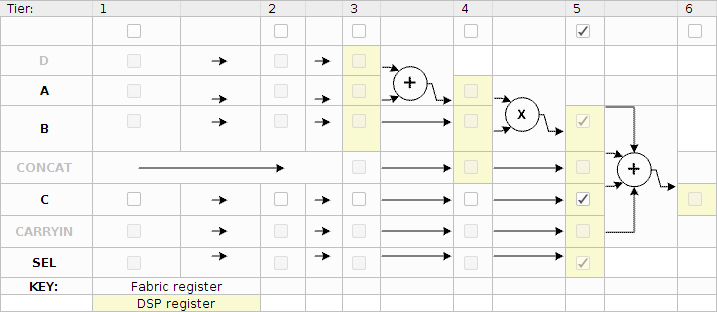
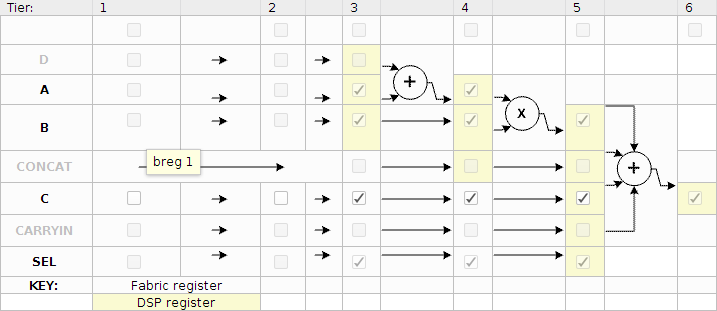
Update

diff --git a/chapters/implementation-details.tex b/chapters/implementation-details.tex
@@ -89,7 +89,7 @@ end
 
 The code is separated into a sequential block and a combinational next-state logic block for clarity.
 The merged C code of \mintinline{c}{gemm} and \mintinline{c}{col2im} shown in listing
-\ref{code:transposed_convolution_in_c} can be then translated into Verilog using the structure
+\ref{code:transposed_convolution_in_c} can be then translated into Verilog using this structure
 as a template.
 
 The \mintinline{c}{transconv} module is connected to the input, weight, and output \glspl{bram}. A single
@@ -133,8 +133,10 @@ The ports of both blocks are shown in figure \ref{fig:dsp48_macro_0} and figure 
 
 The DSP48 slice can be used without pipelining. However, that is essentially a combinational circuit and
 the propagation delay will significantly reduce $F_{max}$. To run the \gls{fpga} at a higher frequency, it is
-necessary to use pipeline registers. In our first design, only the register after the multiplier is used
-therefore the result is delayed by one clock cycle.
+necessary to use pipeline registers. In the first version of the design, only the register after the
+multiplier is used and the result is delayed by one clock cycle. This caused a negative \gls{wns} at
+$100 MHz$ clock frequency, which indicates that timing requirements are not met in certain paths. By
+using more pipeline registers, the results has a larger clock latency but $F_{max}$ can be improved.
 
 \begin{figure}[h]
   \centering
@@ -150,8 +152,9 @@ Xilinx Vivado is shipped with a Floating-point IP which supports many common ope
 conversion between fixed-point and floating-point formats, multiplication, accumulation, exponential,
 inverse square root, and many others. The input precision can be configured as half, single or
 double-precision, or even customized width of exponent and fraction. It is also possible to choose
-DSP slice usage, from logic only to maximum three DSP48 slices. Finally, the user is able to decide
-the goal of optimization, using minimum resources or maximum clock frequency $F_{max}$. An example
+DSP slice usage, from logic only to a maximum utilization of DSP48 slices. Finally, the user is able to decide
+the goal of optimization, using minimum resources or maximum clock frequency $F_{max}$. Choosing maximum
+clock frequency helps with the eventual timing closure, just as the case with DSP48 pipelining. An example
 floating-point multiplier is shown in figure \ref{fig:floating_point_multiplier}.
 
 \begin{figure}[h]
@@ -163,6 +166,12 @@ floating-point multiplier is shown in figure \ref{fig:floating_point_multiplier}
 
 \section{Testbench}
 
+Writing testbenches and performing simulation is a key step in \gls{fpga} development. In this project,
+each module is developed as separate projects with a corresponding testbench module and a synthesizable
+top module. The contents of these two modules are largely similar, but the testbench module usually operates
+on relatively simple data to make simulation easier. Once a module has passed simulation and on-board test,
+it is imported and integrated into the main project.
+
 \begin{figure}[h]
   \centering
   \includegraphics[scale=0.5]{behavioral_simulation}
@@ -172,13 +181,24 @@ floating-point multiplier is shown in figure \ref{fig:floating_point_multiplier}
 
 \section{Future Work on Optimization}
 
+As mentioned before, the main goal of the design was simplicity, so many optimizations were not applied.
+This section briefly discusses possible optimization methods.
+
 The first obvious optimization is to transfer all weight data from Dual-SPI Flash to the \gls{psram} once
 the \gls{fpga} is configured. Weights will be loaded from the \gls{psram} subsequently, which has a parallel
-interface and results in much faster loading of weights.
+interface and will result in much faster loading of weights.
 
-The second optimization is to further introduce several small caches using distributed RAM. These caches
+Another optimization mentioned is to widen the data buses connected to the \gls{psram}. Multiple data
+can be loaded at the same time and calculation can be performed in parallel on these data. The current
+design is highly sequential and only utilizes around $15\%$ of the \gls{dsp} slices.
+
+Yet another optimization is to further introduce several small caches using distributed RAM. These caches
 are implemented using \glspl{lut} and are faster than \glspl{bram}, i.e., they can be read asynchronously.
-Once inputs and weights are loaded into these caches, computation can then be carried out in parallel,
+Once inputs and weights are loaded into these caches, more parallelism can be achieved,
 making use of more DSP48 slices.
+
+Finally, on an \gls{fpga} chip with more \gls{bram} capacity, layer-level parallelism can be exploited, i.e.,
+several layers can be calculated at the same time. This invovles modifying the current ring structure and
+forward data stream to subsequent layers.
 
 \clearpage %force the next chapter to start on a new page. Keep that as the last line of your chapter!

diff --git a/chapters/hardware-architecture.tex b/chapters/hardware-architecture.tex
@@ -108,8 +108,7 @@ BN module, $tanh$ is then performed on the floating-point numbers, and the final
 sent to the computer through \gls{uart} and converted to PNG format with a simple conversion script.
 
 This combination of floating-point and fixed-point layers achieves a balance between efficiency and
-accuracy. The Floating-point \gls{ip} core provided by Xilinx Vivado makes the implementation much easier
-by providing common floating-point operations such as multiplication, division, comparison, accumulation,
-inverse square root, etc.
+accuracy. The overhead introduced by on-chip quantization and dequantization is acceptable with the
+use of DSP48 slices.
 
 \clearpage %force the next chapter to start on a new page. Keep that as the last line of your chapter!

diff --git a/chapters/0abbr.tex b/chapters/0abbr.tex
@@ -27,5 +27,6 @@
 \newacronym{sgd}{SGD}{Stochastic Gradient Descent}
 \newacronym{tpu}{TPU}{Tensor Processing Unit}
 \newacronym{uart}{UART}{Universal Asynchronous Receiver-Transmitter}
+\newacronym{wns}{WNS}{Worst Negative Slack}
 
 % maybe spi in glossary
